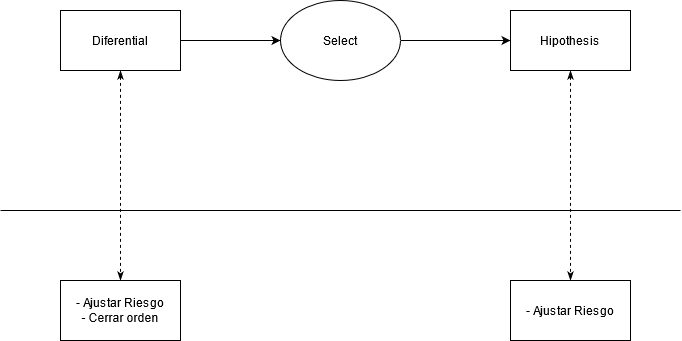
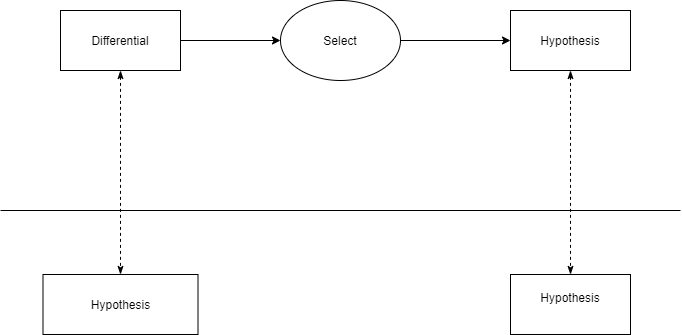
Modelo conocimiento. Falta la plantilla de la estructura inferencial

diff --git a/practica/capitulos/Tema_3.tex b/practica/capitulos/Tema_3.tex
@@ -79,7 +79,7 @@ Para este proyecto hemos decidido utilizar la metodología ``middle-out'' con la
 
 \subsection{Plantilla anotada}
 
-La plantilla que mas se adapta a nuestro problema es la de diagnóstico, como se muestra en la Figura \ref{fig:PlantillaEjemplo}. Con una pequeña modificación que se muestras en la Figuras \ref{fig:CasoMoverRiesgo} y \ref{fig:CasoCerrarOrden}.
+La plantilla que mas se adapta a nuestro problema es la de diagnóstico, como se muestra en la Figura \ref{fig:PlantillaEjemplo}. Con una pequeña modificación que se muestras en la Figuras \ref{fig:PlantillaDiagnosticoModificada}.
 
 \begin{figure}[H]
   \centering
@@ -89,21 +89,27 @@ La plantilla que mas se adapta a nuestro problema es la de diagnóstico, como se
 
 \begin{figure}[H]
   \centering
-  \includegraphics[scale=0.50]{imagenes/CasoMoverRiesgo.png}
-  \caption{\label{fig:CasoMoverRiesgo}Ejemplo de la plantilla caso de ajustar riesgo}
+  \includegraphics[scale=2.10]{imagenes/PlantillaDiagnosticoModificada.png}
+  \caption{\label{fig:PlantillaDiagnosticoModificada}Ejemplo de la plantilla diagnóstico modificada}
 \end{figure}
 
-\begin{figure}[H]
-  \centering
-  \includegraphics[scale=0.50]{imagenes/CasoCerrarOrden.png}
-  \caption{\label{fig:CasoCerrarOrden}Ejemplo de la plantilla con el caso cerrar orden}
-\end{figure}
+\subsubsection{Anotaciones}
+Comentarios y ejemplos concretos para los roles presentes en la plantilla seleccionada.
+\begin{itemize}
+  \item \textbf{Caso:} Datos de una operativa: e.g. En la situación que se muestra en la Figura \ref{fig:Situacion1}, donde el inversor había ejecutado una orden de compra en el precio \textbf{1.18767} y ha estipulado su gestión de riesgo para el precio \textbf{1.18664} y como se observa en el gráfico de la figura comentada anteriormente, el precio esta a favor del inversor y en esa ocasión el inversor tiene que reducir el riesgo inicial de la inversión una vez superada la resistencia.
+  \item \textbf{Caso abstraído:} Datos de una operativa abstaídos. e.g. El precio del activo ha superado la resistencia, es decir, MercadoForex.Activo.valor > resistencia. Se abstrae en MercadoForex.Activo.valor > MercadoForex.resistencia.Fuerte
+  \item \textbf{Hypothesis\footnote{Hypothesis (Diferential)}:} Posibles acciones a llevar a cabo e.g. Cerrar la operativa o reducir el riesgo.
+  \item \textbf{Hypothesis\footnote{Hypothesis (Hypothesis)}:} Acción concreta a evaluar. e.g. reducir el riesgo.
+  \item \textbf{Observable:} Estado del mercado de forex para la operativa actual. e.g. Mercado forex para EURUSD.
+  \item \textbf{Finding:} Estado del mercado con respecto a nuestra operativa: e.g. Si estamos comprando que la tendencia sea alcista o si estamos vendiendo bajista.
+  \item \textbf{Result:} Se confirma o deniega la hipotesis seleccionada. e.g. \{Ajustar riesgo = True, Cerrar la operativa = False\} 
+\end{itemize}
 
 \subsection{Esquema inicial del dominio}
 
 \begin{figure}[H]
   \centering
-  \includegraphics[scale=0.70]{imagenes/DominioInicial.png}
+  \includegraphics[scale=0.90]{imagenes/DominioInicial.png}
   \caption{\label{fig:DominioInicial}Dominio inicial}
 \end{figure}
 
@@ -112,23 +118,28 @@ La plantilla que mas se adapta a nuestro problema es la de diagnóstico, como se
 \subsubsection{Mapeado}
 Relacción entre los roles de las inferencias de la plantilla con los conceptos de nuestro problema.
 \begin{itemize}
+  \item Abstraído:
+  \begin{figure}[H]
+    \centering
+    \includegraphics[scale=0.50]{imagenes/abstraccion.png}
+    \caption{\label{fig:Cover}Ejemplo del mapeo de Abstraccion}
+  \end{figure}
   \item Cover:  
   \begin{figure}[H]
     \centering
-    \includegraphics[scale=0.50]{imagenes/Cover.png}
+    \includegraphics[scale=0.50]{imagenes/cover.png}
     \caption{\label{fig:Cover}Ejemplo del mapeo de Cover}
   \end{figure}
   \item Select: 
   \begin{figure}[H]
     \centering
-    \includegraphics[scale=0.50]{imagenes/Select.png}
+    \includegraphics[scale=0.50]{imagenes/select.png}
     \caption{\label{fig:Select}Ejemplo del mapeo de Select}
   \end{figure}
-  \newpage
   \item Specify: 
   \begin{figure}[H]
     \centering
-    \includegraphics[scale=0.50]{imagenes/Specify.png}
+    \includegraphics[scale=0.50]{imagenes/specify.png}
     \caption{\label{fig:Specify}Ejemplo del mapeo de Specify}
   \end{figure}
   \item Obtain:  
@@ -137,12 +148,16 @@ Relacción entre los roles de las inferencias de la plantilla con los conceptos 
     \includegraphics[scale=0.50]{imagenes/Obtain.png}
     \caption{\label{fig:Obtain}Ejemplo del mapeo de Obtain}
   \end{figure}
-  \newpage
   \item Verify:  
   \begin{figure}[H]
     \centering
-    \includegraphics[scale=0.50]{imagenes/Verify.png}
-    \caption{\label{fig:Verify}Ejemplo del mapeo de Verify}
+    \includegraphics[scale=0.50]{imagenes/verify1.png}
+    \caption{\label{fig:Verify}Ejemplo del mapeo de Verify del rol Diferential}
+  \end{figure}
+  \begin{figure}[H]
+    \centering
+    \includegraphics[scale=0.50]{imagenes/verify2.png}
+    \caption{\label{fig:verify2}Ejemplo del mapeo de Verify del rol finding}
   \end{figure}
 \end{itemize}
 
